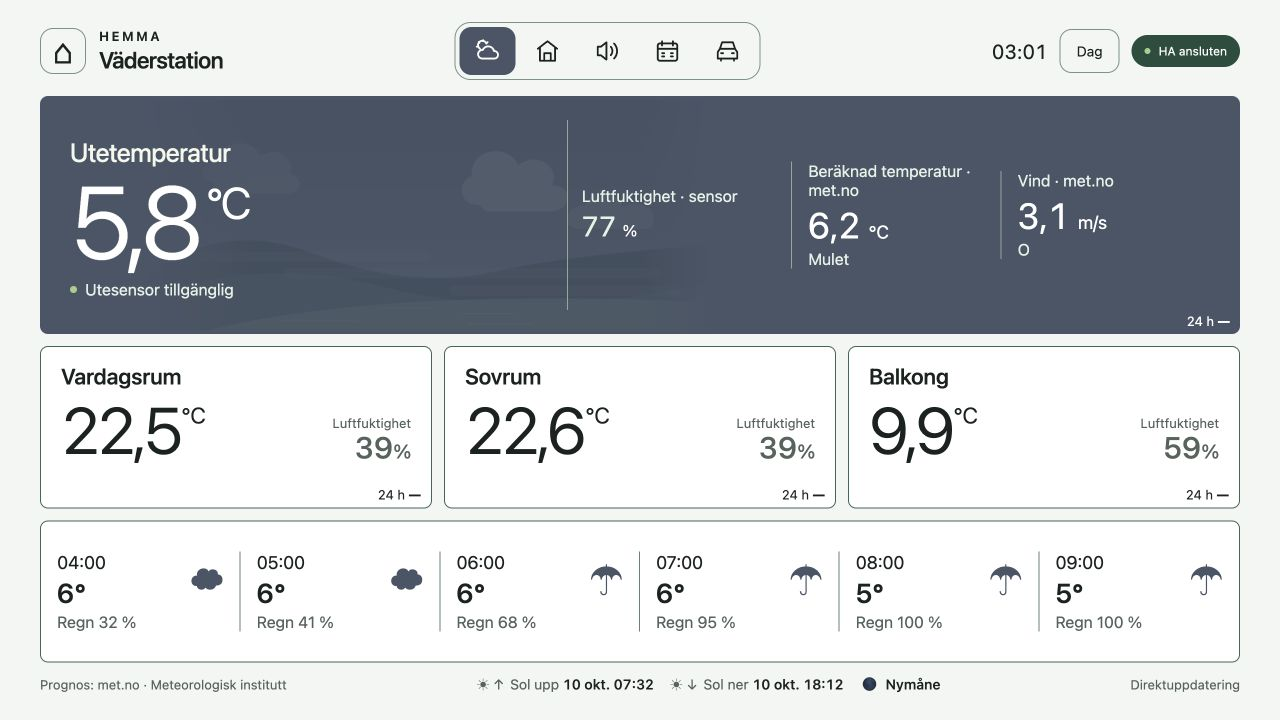
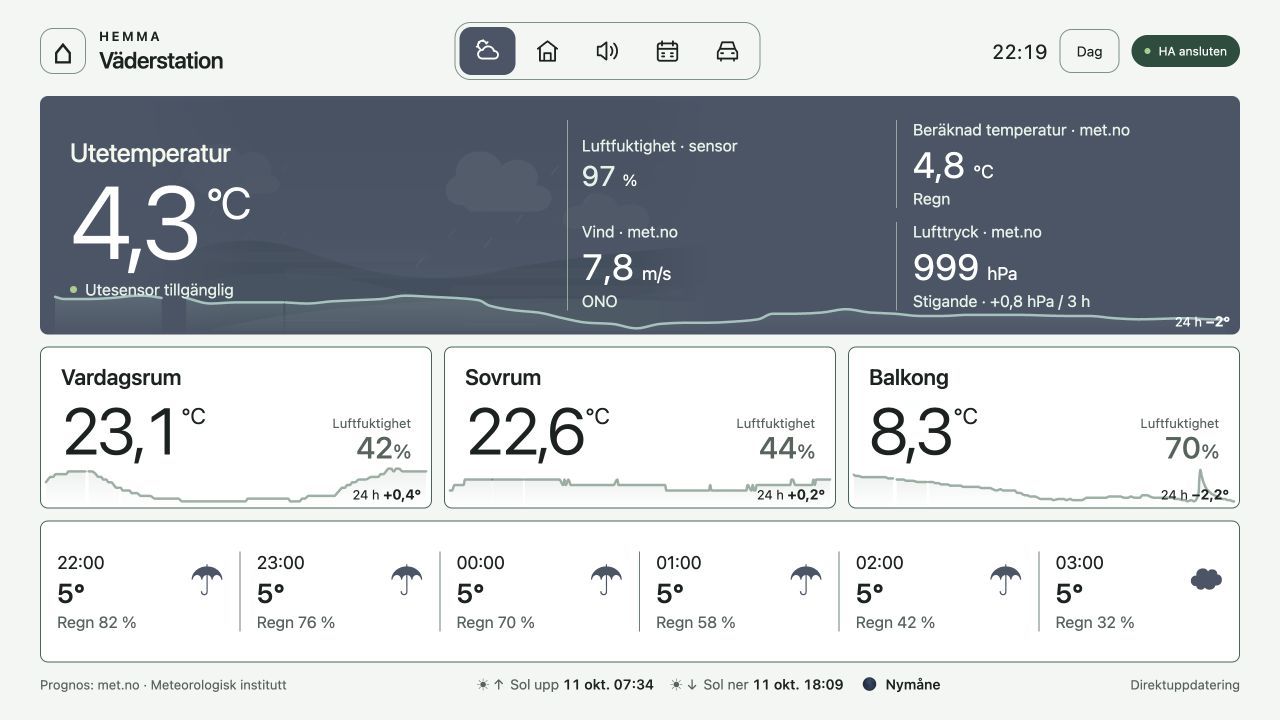
Restore pressure and three-hour trend to the weather view

diff --git a/src/routes/+page.svelte b/src/routes/+page.svelte
@@ -502,6 +502,28 @@
               >{direction(weather.details.windBearing)}</span
             >
           </div>
+          <div class="weather-measure">
+            <span class="label">Lufttryck · met.no</span>
+            <p>{number(weather.details.pressure)} <span>hPa</span></p>
+            <span
+              class="weather-measure-note"
+              title="Förändring sedan tre timmar före senaste vädervärdet"
+            >
+              {#if weather.details.pressureDelta === null}
+                Trycktrend saknas
+              {:else}
+                {weather.details.pressureDelta > 0.5
+                  ? 'Stigande'
+                  : weather.details.pressureDelta < -0.5
+                    ? 'Fallande'
+                    : 'Stabilt'}
+                · {weather.details.pressureDelta > 0 ? '+' : ''}{number(
+                  weather.details.pressureDelta,
+                  1
+                )} hPa / 3 h
+              {/if}
+            </span>
+          </div>
         </div>
         {#if weather.outdoor.temperature !== null && weather.outdoor.temperatureEntityId}
           <TemperatureTrend

diff --git a/src/app.css b/src/app.css
@@ -2003,7 +2003,8 @@ html[data-theme='day'] .weather-screen .outdoor {
   font-size: 16px;
 }
 .weather-screen .outdoor-details {
-  grid-template-columns: repeat(3, minmax(0, 1fr));
+  grid-template-columns: repeat(2, minmax(0, 1fr));
+  row-gap: 14px;
   align-self: stretch;
   align-items: center;
   padding: 0 0 0 14px;
@@ -2012,6 +2013,10 @@ html[data-theme='day'] .weather-screen .outdoor {
 }
 .weather-screen .weather-measure {
   border-color: #8ca99c;
+}
+.weather-screen .weather-measure:nth-child(odd) {
+  border-left: 0;
+  padding-left: 0;
 }
 .weather-screen .weather-measure p {
   color: #fff;

diff --git a/README.en.md b/README.en.md
@@ -10,7 +10,7 @@ Swedish. The Swedish README also preserves dated development notes.
 
 ![Weather overview with outdoor and room readings and daily forecast](static/docs/weather-day.jpg)
 
-Weather overview in Day mode. Screenshots captured from the Pi dashboard on
+Weather overview in Day mode. Screenshots captured from the dashboard on
 2026-10-10 at 1280 × 720; readings and availability are examples from that moment.
 The interface remains Swedish in both documentation versions.
 
@@ -94,8 +94,10 @@ pressure and forecasts. Six forecast columns switch between days (min/max) and
 hours by tapping the whole row. Precipitation is probability in %, not amount.
 `weather/get_forecasts?return_response` retrieves daily/hourly forecasts through
 HA, cached in server memory for 15 minutes. Failed forecasts do not block sensors.
-Pressure and the three-hour pressure trend remain in server data but are not
-shown in the kiosk. Trend needs Recorder history; missing history, API errors or
+The kiosk shows met.no pressure in hPa with the three-hour change and a rising,
+falling or stable label. Missing history displays “Trycktrend saknas” (pressure
+trend unavailable). Four weather details use a two-column, two-row layout to fit
+the 1280 × 720 kiosk. Trend needs Recorder history; missing history, API errors or
 current data older than 90 minutes yields no trend.
 
 Weather/Rooms cards show 24-hour temperature curves and change in degrees from

diff --git a/static/docs/README.md b/static/docs/README.md
@@ -1,13 +1,16 @@
 # Documentation screenshots / Skärmbilder för dokumentationen
 
-Captured / Tagna: **2026-10-10**, 1280 × 720, live Pi dashboard at
-`http://vaderstation.local:3000/?kiosk=1`. The UI is Swedish; captions are provided
+Captured / Tagna: **2026-10-10**, 1280 × 720. Most images use the live Pi
+dashboard at `http://vaderstation.local:3000/?kiosk=1`. Weather day/hourly images
+were refreshed from the local development preview using the same live HA data
+to show the restored pressure and three-hour trend. The UI is Swedish; captions are provided
 in both main README versions. Each filename describes the use case, not a permanent
 state. No image editing, synthetic values or device-control commands were used.
 Sonos grouping selection was cancelled. The browser theme was returned to Auto.
 
-Images show actual reported state after the 03:00 scheduled backup. Temperature
-history was temporarily unavailable at capture; `24 h —` is the normal fallback.
+Most images show actual reported state after the 03:00 scheduled backup.
+Temperature history was temporarily unavailable in those captures; `24 h —` is
+the normal fallback. The refreshed weather images include available history.
 A manual Day theme does not change the landscape’s actual nighttime appearance.
 Device-health events show recovery after backup; car health/mileage were already
 older than one day. The calendar image uses the previously discussed two-day

diff --git a/README.md b/README.md
@@ -9,7 +9,7 @@ med Vardagsrum, Sovrum och Balkong under.
 
 ![Väderöversikt med utegivare, rumsvärden och dygnsprognos](static/docs/weather-day.jpg)
 
-Vädervyn i dagläge. Skärmbilderna togs från Pi-dashboarden 2026-10-10 i
+Vädervyn i dagläge. Skärmbilderna togs från dashboarden 2026-10-10 i
 1280 × 720; mätvärden och tillgänglighet är exempel från det tillfället.
 
 Drift verifierad på Raspberry Pi per **2026-10-10**.
@@ -522,7 +522,10 @@ Temat ändrar färgerna, inte skärmens hårdvaruljusstyrka.
 
 met.no-panelen visar även lufttryck i hPa, vind i m/s och kompassriktning (varifrån
 vinden blåser). Kända enheter konverteras; saknade/okända enheter visas som streck.
-Lufttryck och trend finns kvar i serverns data men visas inte i kiosk-vyn.
+Lufttryck från met.no visas i hPa i vädervyn, tillsammans med förändringen
+under tre timmar och texten Stigande, Fallande eller Stabilt. Saknad historik
+visas som ”Trycktrend saknas”. Väderdetaljerna ligger i två kolumner och två
+rader så att de ryms på kioskens 1280 × 720-skärm.
 
 Stora panelen visar den separata utomhusgivaren. Raden Hemma visar riktiga
 värden för Vardagsrum, Sovrum och Balkong.

diff --git a/HANDOVER.md b/HANDOVER.md
@@ -105,3 +105,9 @@ språk ändras inte. Sparade Gemini-/Copilot-samtal behåller sitt ursprungliga 
 Bilens temaanpassade foto och halvtransparenta lås-/hälsokort är installerade.
 Paneltext har full opacitet och minst 4,5:1 kontrast vid konservativ beräkning
 mot ljusaste/mörkaste möjliga bakgrund. Kontroll och bygge passerade.
+
+## Återställt lufttryck
+
+Lufttryck och tre timmars trycktrend visas åter i vädervyn. De fyra sekundära
+mätvärdena använder två kolumner och två rader i kiosken. Saknad historik visas
+som Trycktrend saknas. Väderbilderna och båda README-versionerna är uppdaterade.

diff --git a/HANDOVER.en.md b/HANDOVER.en.md
@@ -88,3 +88,9 @@ Keep Swedish `.md` and English `.en.md` operational guides aligned in the same
 commit. Preserve command paths, entity IDs and Swedish UI names in English text.
 Historical Gemini/Copilot conversations remain in their original language.
 Documentation language does not change the dashboard language.
+
+## Restored pressure display
+
+Weather again shows pressure and the three-hour trend. Four secondary readings
+use two columns and two rows in the kiosk. Missing history shows Trycktrend saknas.
+Weather screenshots and both README versions are updated.
